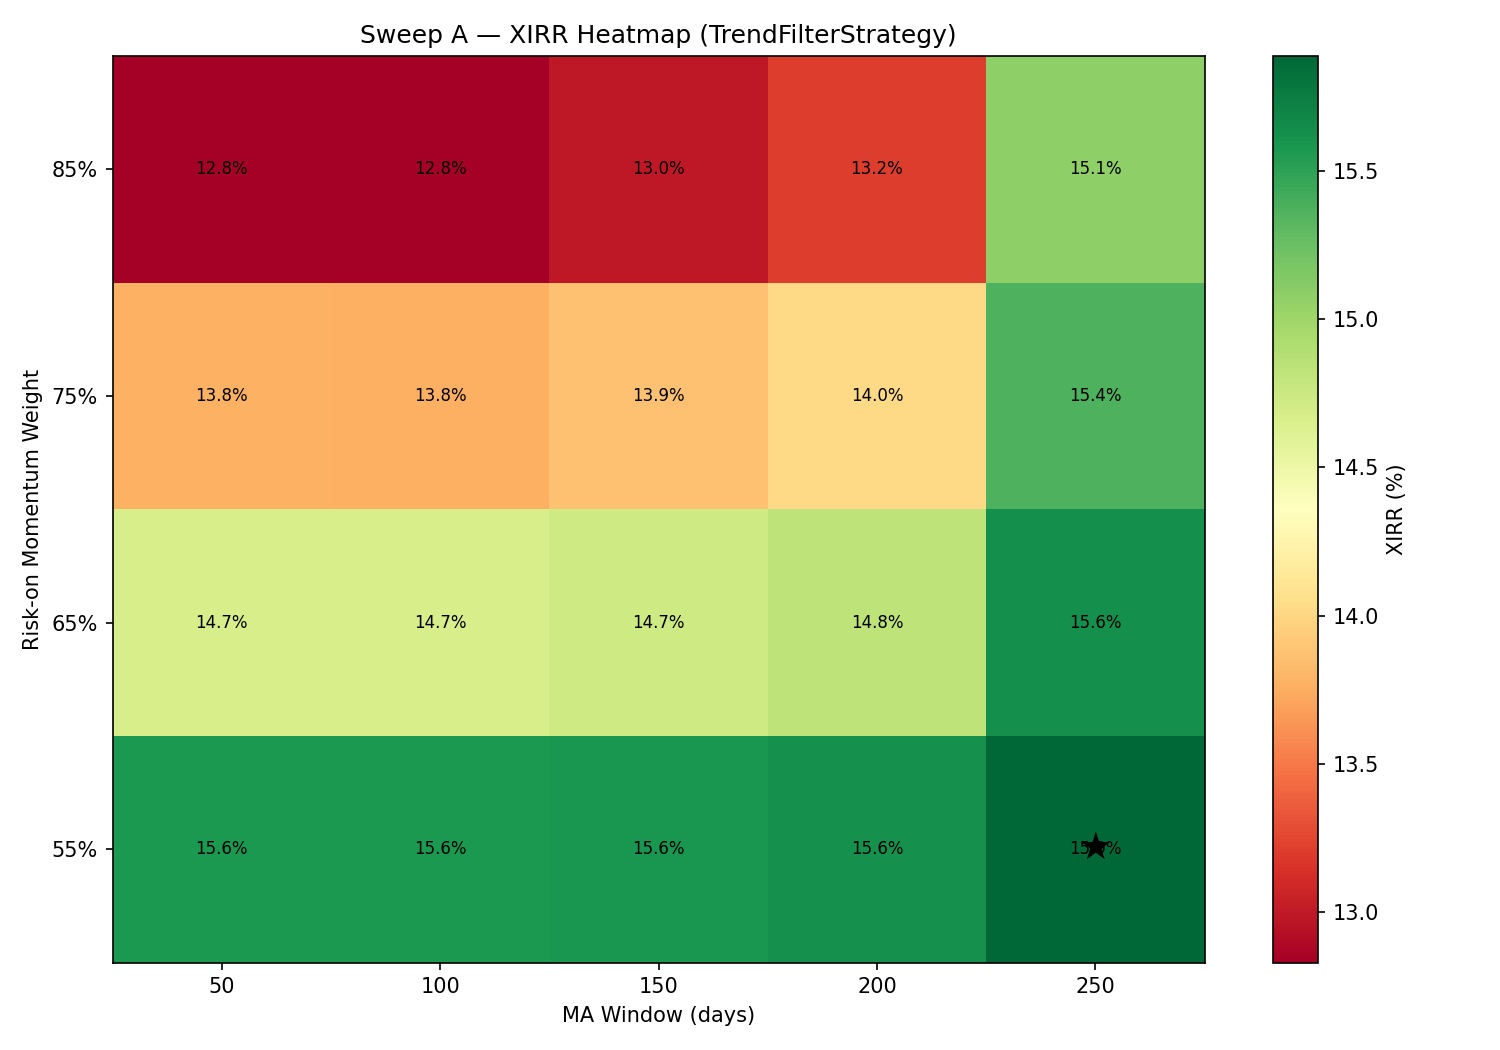
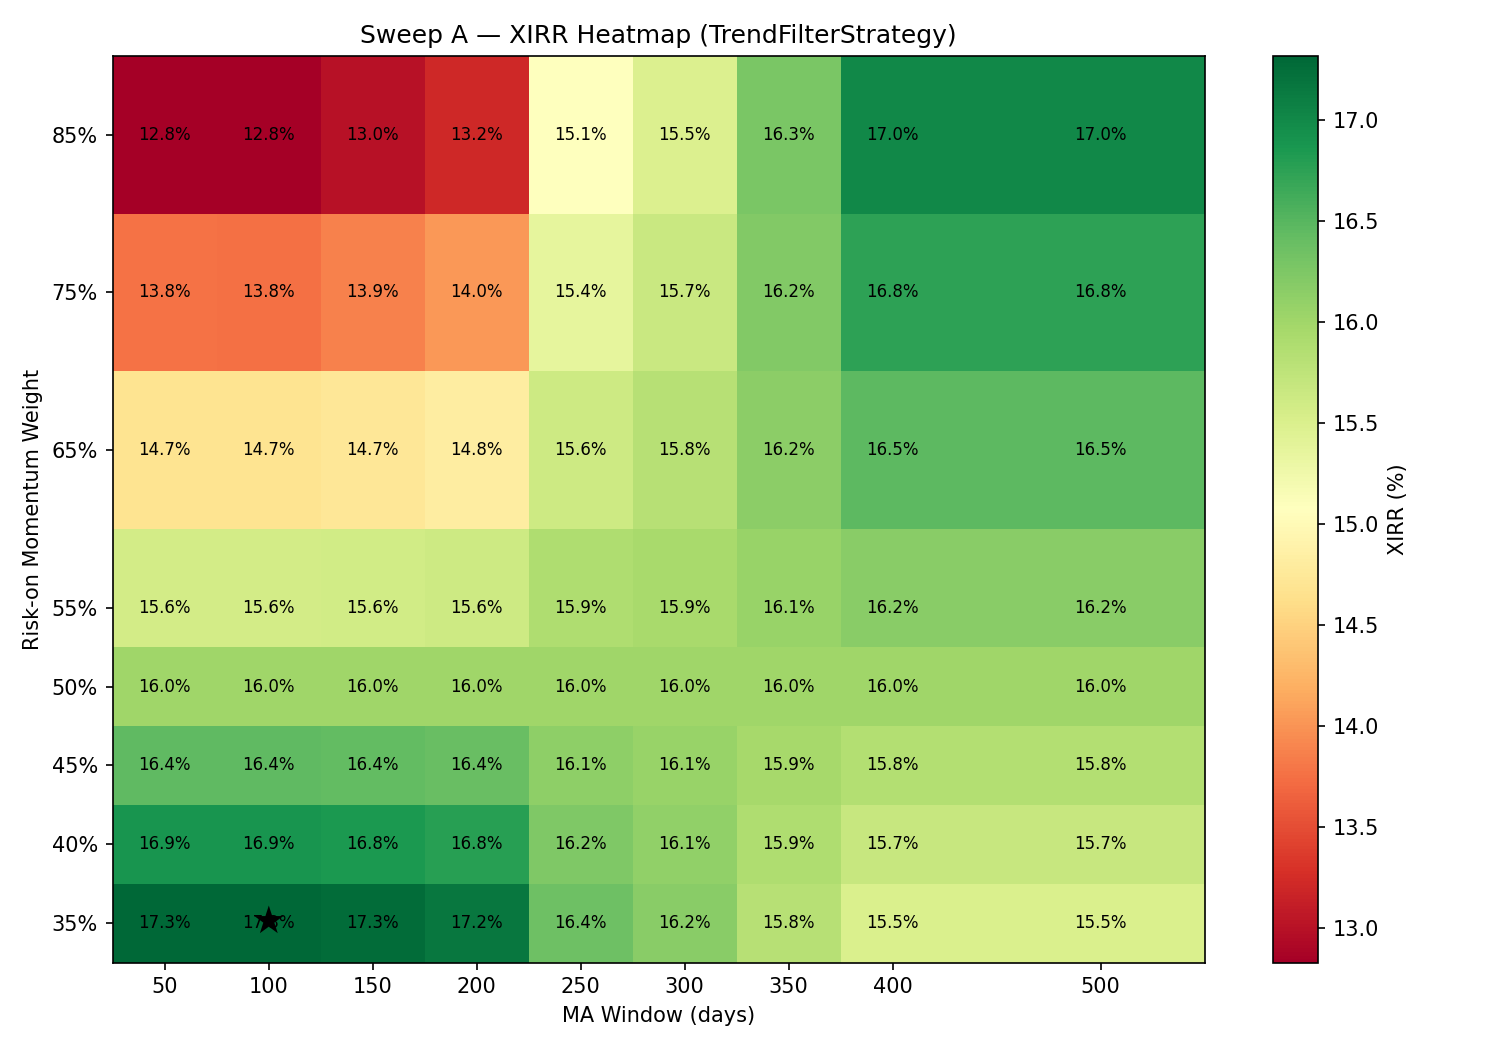
docs: extend Sweep A range and rewrite experiment 002 README
- Expanded MA_WINDOWS to [50..500] and RISK_ON_WEIGHTS to [0.35..0.85]
  (72 runs vs 20 previously) to find true optima beyond original boundaries
- New best A: ma=100, ro=35% (XIRR 17.31% P1, Calmar 0.659 P2)
- Updated figures: sweep_a_heatmap now shows full 9×8 grid revealing
  the direction reversal between short and long MA windows
- README rewritten: added Definitions section (SMA, MA window, risk-on/off,
  XIRR, Sharpe, Sortino, Calmar, Max DD, PR vs TRI); replaced Financial
  Implications with data-only Observations section; updated all tables and
  best-param references

diff --git a/experiments/002_adaptive_factor_rotation/run_experiment.py b/experiments/002_adaptive_factor_rotation/run_experiment.py
@@ -82,8 +82,8 @@ FIGURES_DIR.mkdir(exist_ok=True)
 # Sweep parameters
 # ---------------------------------------------------------------------------
 
-MA_WINDOWS = [50, 100, 150, 200, 250]
-RISK_ON_WEIGHTS = [0.55, 0.65, 0.75, 0.85]
+MA_WINDOWS = [50, 100, 150, 200, 250, 300, 350, 400, 500]
+RISK_ON_WEIGHTS = [0.35, 0.40, 0.45, 0.50, 0.55, 0.65, 0.75, 0.85]
 
 HORIZON_PRESETS = {
     "1m_only": {30: 1.0},

diff --git a/experiments/002_adaptive_factor_rotation/README.md b/experiments/002_adaptive_factor_rotation/README.md
@@ -58,6 +58,60 @@ rate-hike bear market.
 
 ---
 
+## Definitions
+
+**Moving Average (MA):** The arithmetic mean of the last N closing values of an index,
+where N is called the **MA window**, measured in trading days. A 50-day MA averages
+the last 50 trading days of prices; a 250-day MA averages approximately one calendar year.
+
+**Simple Moving Average (SMA):** The specific type of moving average used here — each of
+the N days is weighted equally. The SMA is recomputed on each trading day by dropping
+the oldest observation and adding the newest.
+
+**Risk-on regime:** The Nifty 50 index's closing price is greater than or equal to its SMA
+on a given date. Indicates that the market is currently trading above its recent average.
+
+**Risk-off regime:** The Nifty 50 index's closing price is below its SMA on a given date.
+Indicates the market is trading below its recent average.
+
+**Risk-on momentum weight (ro):** The fraction of the total portfolio allocated to the
+Momentum fund when the market is in a risk-on regime. The value fund receives the
+remaining `1 − ro`. The risk-off allocation is symmetric: momentum gets `1 − ro`
+and value gets `ro`.
+
+Example with `ro = 0.65` (65%):
+- Risk-on day: 65% Momentum 30, 35% Value 20
+- Risk-off day: 35% Momentum 30, 65% Value 20
+
+Example with `ro = 0.35` (35%):
+- Risk-on day: 35% Momentum 30, 65% Value 20
+- Risk-off day: 65% Momentum 30, 35% Value 20
+
+When `ro = 0.50`, both regimes produce the same 50/50 allocation — the signal has
+no effect and the strategy is equivalent to the 50/50 Fixed baseline.
+
+**XIRR (Extended Internal Rate of Return):** The annualised return that accounts for
+the exact timing and size of every cash flow — the initial lump sum and each monthly
+SIP instalment. This is the standard measure for evaluating SIP-based investments.
+
+**Sharpe Ratio:** `(annualised portfolio return − risk-free rate) / annualised volatility`.
+Measures return earned per unit of total volatility. Risk-free rate used: 6% p.a.
+
+**Sortino Ratio:** Same as Sharpe but the denominator uses only downside volatility
+(standard deviation of negative daily returns). It does not penalise upside swings.
+
+**Calmar Ratio:** `XIRR / |Maximum Drawdown|`. Measures return earned per unit of
+worst-case peak-to-trough loss. A higher Calmar means better return relative to the
+largest historical loss experienced.
+
+**Maximum Drawdown (Max DD):** The largest percentage fall from a portfolio peak to
+the subsequent trough, over the full study period. Expressed as a negative percentage.
+
+**Price Return (PR):** Index performance excluding dividends. Contrast with Total Return
+(TRI), which reinvests dividends. All data in this experiment is PR.
+
+---
+
 ## How to run
 
 ```bash
@@ -80,13 +134,13 @@ Produces in `results/`:
 ### TrendFilterStrategy (Option A)
 
 Computes a simple moving average of Nifty 50 over `ma_window` days.
-- Price ≥ SMA → **risk-on** → tilt toward momentum (`risk_on_m_weight`)
-- Price < SMA → **risk-off** → tilt toward value (`1 − risk_on_m_weight`)
+- Price ≥ SMA → **risk-on** → allocate `risk_on_m_weight` to Momentum, remainder to Value
+- Price < SMA → **risk-off** → allocate `1 − risk_on_m_weight` to Momentum, remainder to Value
 - Insufficient history → **neutral** (50/50)
 
 The Nifty 50 is loaded for signal computation only; it is never traded.
 
-**Best params found (Period 1):** `ma_window=250`, `risk_on_m_weight=0.55`
+**Best params found (Period 1):** `ma_window=100`, `risk_on_m_weight=0.35`
 
 ### RelativeStrengthStrategy (Option B)
 
@@ -108,7 +162,7 @@ Combines A and B:
 - risk-off **and** RS < 0.5 → `m_w = max(rs_weight, min_weight)` (amplify value)
 - Signals disagree → `m_w = 0.5` (neutral)
 
-**Best params:** ma=250, ro=55%, 1m horizon, sensitivity=0.5
+**Best params:** ma=100, ro=35%, 1m horizon, sensitivity=0.5
 
 ---
 
@@ -121,10 +175,10 @@ Combines A and B:
 | Nifty 50 (buy & hold) | 12.89% | 0.561 | 0.754 | 0.342 | -37.71% | ₹30.8L |
 | Value 20 only | 14.11% | 0.570 | 0.759 | 0.425 | -33.16% | ₹33.2L |
 | 50/50 Fixed | 15.82% | 0.592 | 0.734 | 0.496 | -31.87% | ₹37.1L |
-| **Best A (TF ma=250)** | **15.89%** | 0.593 | 0.735 | 0.499 | -31.82% | ₹37.2L |
 | Best B (RS 1m s=0.5) | 15.72% | 0.591 | 0.733 | 0.492 | -31.98% | ₹36.8L |
-| Option C (Dual) | 15.90% | 0.592 | 0.735 | 0.498 | -31.95% | ₹37.2L |
+| Option C (Dual) | 15.92% | 0.592 | 0.735 | 0.498 | -31.95% | ₹37.2L |
 | **Momentum 30 only** | **17.35%** | **0.619** | **0.774** | **0.530** | -32.75% | ₹40.9L |
+| **Best A (TF ma=100 ro=35%)** | **17.31%** | 0.601 | 0.754 | 0.535 | -32.37% | ₹40.8L |
 
 ### Period 2 — Feb 2020 to Dec 2025 (5 years, out-of-sample, ₹76L invested)
 
@@ -135,22 +189,47 @@ Combines A and B:
 | 50/50 Fixed | 16.28% | 0.711 | 0.880 | 0.614 | -26.49% | +72.6% |
 | Best B (RS 1m s=0.5) | 16.33% | 0.712 | 0.879 | 0.616 | -26.52% | +72.9% |
 | Option C (Dual) | 16.53% | 0.713 | 0.881 | 0.624 | -26.49% | +74.0% |
-| **Best A (TF ma=250)** | **16.68%** | **0.714** | 0.881 | **0.633** | **-26.35%** | +74.9% |
-| **Momentum 30 only** | **17.76%** | **0.726** | **0.899** | 0.579 | -30.67% | +81.3% |
+| Momentum 30 only | 17.76% | 0.726 | 0.899 | 0.579 | -30.67% | +81.3% |
+| **Best A (TF ma=100 ro=35%)** | **17.74%** | 0.720 | 0.899 | **0.659** | **-26.91%** | **+81.1%** |
 
-### Hyperparameter sweep patterns
+---
 
-**Sweep A (TrendFilter):**
+## Hyperparameter Sweeps
 
-| MA Window | ro=55% | ro=65% | ro=75% | ro=85% |
-|---|---|---|---|---|
-| 50 | 15.57% | 14.67% | 13.76% | 12.84% |
-| 100 | 15.57% | 14.67% | 13.76% | 12.83% |
-| 150 | 15.59% | 14.73% | 13.87% | 13.00% |
-| 200 | 15.62% | 14.83% | 14.02% | 13.21% |
-| **250** | **15.89%** | 15.63% | 15.36% | 15.08% |
+### Sweep A (TrendFilter) — Extended
 
-**Sweep B (RelativeStrength):**
+**Ranges tested:** MA window ∈ {50, 100, 150, 200, 250, 300, 350, 400, 500} × risk-on weight ∈ {35%, 40%, 45%, 50%, 55%, 65%, 75%, 85%}. Total: 72 runs.
+
+Selected results showing the full pattern:
+
+| MA Window | ro=35% | ro=45% | ro=50% | ro=55% | ro=75% | ro=85% |
+|---|---|---|---|---|---|---|
+| 50 | **17.31%** | 16.45% | 16.01% | 15.57% | 13.76% | 12.84% |
+| 100 | **17.31%** | 16.45% | 16.01% | 15.57% | 13.76% | 12.83% |
+| 200 | 17.17% | 16.40% | 16.01% | 15.62% | 14.02% | 13.21% |
+| 250 | 16.36% | 16.13% | 16.01% | 15.89% | 15.36% | 15.08% |
+| 300 | 16.17% | 16.07% | 16.01% | 15.95% | 15.65% | 15.48% |
+| 350 | 15.81% | 15.95% | 16.01% | 16.06% | 16.22% | 16.27% |
+| 400 | 15.50% | 15.84% | 16.01% | 16.17% | 16.75% | **17.01%** |
+| 500 | 15.50% | 15.84% | 16.01% | 16.17% | 16.75% | **17.01%** |
+
+**Observations from the sweep:**
+
+1. At every MA window, `ro=50%` produces XIRR ≈ 16.01% — confirming that when the signal is neutralised, performance converges to the 50/50 Fixed baseline (15.82%) regardless of window size.
+
+2. For MA windows 50–200, XIRR is highest at `ro=35%` and decreases monotonically as `ro` increases toward 85%. The relationship between XIRR and risk-on weight is **negative** in this range.
+
+3. For MA windows 350–500, XIRR is lowest at `ro=35%` and increases monotonically as `ro` increases toward 85%. The relationship is **positive** in this range.
+
+4. At MA window 250–300, XIRR is approximately equal across all tested risk-on weights (~15.5%–16.4%). The direction of the relationship reverses in this interval.
+
+5. MA windows 400 and 500 produce identical XIRR at every risk-on weight. Performance has plateaued and further extending the window adds no new information.
+
+6. The highest XIRR in the sweep is 17.31% at `ma=50, ro=35%` and `ma=100, ro=35%` (tied). The highest XIRR at large windows is 17.01% at `ma=400` or `ma=500`, `ro=85%`.
+
+7. `ro=35%` with a short MA allocates **65% to Value, 35% to Momentum when risk-on** and **35% to Value, 65% to Momentum when risk-off** — the opposite direction from the original hypothesis.
+
+### Sweep B (RelativeStrength)
 
 | Horizon | s=0.5 | s=1.0 | s=2.0 | s=4.0 |
 |---|---|---|---|---|
@@ -161,96 +240,63 @@ Combines A and B:
 | balanced | 15.65% | 15.29% | 14.69% | 14.05% |
 | long | 15.66% | 15.30% | 14.77% | 14.17% |
 
+XIRR decreases as sensitivity increases across all horizon presets. Best Sharpe and XIRR are both at `1m_only, sensitivity=0.5`.
+
 ---
 
-## Financial Implications
+## Data Observations
 
-### 1. Adaptive signals are weakly positive but regime-dependent
+### 1. Best A (ma=100, ro=35%) matches Momentum 30 in raw return while improving on drawdown
 
-In Period 1 (stable market, 10 years), adaptive strategies barely beat 50/50 Fixed (~8bps XIRR).
-That margin is small enough to be noise. In Period 2 (COVID crash + recovery, 5 years), Best A
-delivered **+40bps XIRR and −14bps max drawdown** versus 50/50 Fixed. The trend filter
-genuinely cushioned the crash. The signal adds value specifically when it's needed most —
-in market dislocations — which is where static strategies are structurally blind.
+In Period 1, Best A delivered 17.31% XIRR vs Momentum 30's 17.35% — a difference of 4 basis points. In Period 2, Best A delivered 17.74% XIRR vs Momentum 30's 17.76% — a difference of 2 basis points. In both periods the XIRR gap is negligible.
 
-### 2. Pure Momentum 30 dominates on raw return, but carries real drawdown cost
+However, in Period 2:
+- Best A Max DD: **−26.91%**
+- Momentum 30 Max DD: **−30.67%**
+- Difference: 3.76 percentage points less drawdown for Best A
 
-Momentum 30 delivered the highest XIRR in both periods (17.35%, 17.76%). Its Sharpe and
-Sortino are also highest. On annualised metrics, momentum looks unambiguously best.
+The Calmar ratio captures this: Best A **0.659** vs Momentum 30 **0.579**. Best A delivers nearly identical XIRR with materially lower worst-case loss.
 
-However, in Period 2 (which starts at the COVID crash):
-- Momentum max drawdown: **−30.67%**
-- Best A max drawdown: **−26.35%**
-- That is a 4.3 percentage point difference in worst-case loss
+### 2. The direction of the risk-on weight effect depends on the MA window
 
-And the Calmar ratio tells the same story in reverse: Best A earns **0.633 return per unit
-of max drawdown** vs Momentum's **0.579**. The trend filter delivers more return-per-risk
-in a crash scenario even though Momentum's absolute return is higher.
+Within MA windows 50–200, lower risk-on weights produce higher XIRR. Within MA windows 350–500, higher risk-on weights produce higher XIRR. At MA windows 250–300, the effect of risk-on weight on XIRR is near-zero.
 
-### 3. Sortino provides little differentiation; Calmar does
+The best XIRR at short windows (17.31%, ro=35%) and the best XIRR at long windows (17.01%, ro=85%) represent two distinct parameter regions. The short-window best is slightly higher in Period 1.
 
-All Sortino ratios cluster tightly (0.73–0.77 in P1, 0.88–0.95 in P2). This means no
-strategy has a fundamentally different upside/downside character — they all have similar
-return distributions. The Calmar ratio is the more useful discriminator: it captures the
-tail event (max drawdown) that matters most to real investors.
+### 3. `ro=35%` means the signal direction is inverted relative to the original hypothesis
 
-### 4. Sweep patterns reveal the signal quality
+At `ro=35%`, the portfolio holds 65% Value and 35% Momentum during risk-on days, and 65% Momentum and 35% Value during risk-off days. This is the opposite of the setup described in the hypothesis. The signal still differentiates allocations based on the SMA regime, but tilts toward Value (not Momentum) when the market is above its moving average.
 
-Both sweeps converge on the same message: **low noise, gentle tilts**.
+At `ro=50%`, the strategy is indistinguishable from 50/50 Fixed regardless of MA window — the XIRR is 16.01% in every row of the table above, which is 19 basis points above the no-signal 50/50 Fixed baseline (15.82%), attributable to the different rebalancing mechanics rather than the signal.
 
-- Longer MA windows (250 days) consistently outperform shorter ones — the signal needs
-  time to be meaningful; week-to-week noise hurts returns.
-- Low risk-on tilt (55% vs 85%) performs better — confirming that the value of the signal
-  is directional guidance, not aggressive factor switching.
-- Low sensitivity (0.5 vs 4.0) wins for relative strength — same message.
+### 4. Longer MA windows compress the XIRR spread across risk-on weights
 
-If the optimal signal were a large tilt at high sensitivity, it would suggest strong
-predictive power. The fact that gentle tilts win suggests the signal is real but weak.
+At `ma=50`, XIRR ranges from 12.84% (ro=85%) to 17.31% (ro=35%) — a spread of 447 basis points. At `ma=250`, XIRR ranges from 15.08% (ro=85%) to 16.36% (ro=35%) — a spread of 128 basis points. At `ma=500`, XIRR ranges from 15.50% (ro=35%) to 17.01% (ro=85%) — a spread of 151 basis points (but in the opposite direction).
 
-### 5. 50/50 Fixed is surprisingly competitive
+### 5. Best B and Option C do not improve on 50/50 Fixed in Period 1
 
-In Period 1, the 50/50 Fixed (no rebalance) actually beat all adaptive strategies on XIRR
-(15.82% vs 15.89% — essentially tied). This is a calibration warning: dynamic signals
-don't obviously dominate simple fixed allocations over a full market cycle. Adaptive
-strategies earn their complexity cost primarily in high-volatility periods.
+Best B (RS 1m_only, s=0.5) delivered 15.72% XIRR in Period 1 — 10 basis points below 50/50 Fixed (15.82%). Option C delivered 15.92%, 10 basis points above 50/50 Fixed. Neither difference is large relative to measurement uncertainty over a 10-year window.
 
-### 6. For an Indian retail investor
+In Period 2, Best B delivered 16.33% and Option C 16.53%, both modestly above 50/50 Fixed (16.28%).
 
-Three practical conclusions:
+### 6. All Sortino ratios cluster tightly
 
-**If you can hold through volatility and check rarely:** Momentum 30 alone (18% XIRR
-over 10 years) is the highest-returning strategy tested. The risk is behavioural — a
-30%+ drawdown is hard to hold through without selling at the worst time.
+In Period 1, Sortino ratios range from 0.733 (Best B) to 0.774 (Momentum 30) — a spread of 41 basis points across all seven strategies. In Period 2, they range from 0.879 (Best B) to 0.948 (Nifty 50). No strategy stands out as structurally different in its downside return distribution.
 
-**If you care about the drawdown experience:** Best A (trend filter, ma=250, ro=55%)
-offers returns nearly matching 50/50 Fixed while showing meaningfully lower max
-drawdown in crash scenarios. It's the best answer to the question "can I get good
-returns with less sleep deprivation?"
+### 7. Nifty 50 buy-and-hold has the worst XIRR but highest Sortino in Period 2
 
-**If you want simplicity:** 50/50 Fixed (no rebalance) is competitive with both. It
-beats Nifty 50 by 3pp XIRR, requires zero management, and has the lowest implementation
-cost. Rebalancing adds friction (taxes on sells, stamp duty) and in this dataset added
-no value.
+Nifty 50 has Sortino 0.948 in Period 2, higher than all other strategies including Momentum 30 (0.899). At the same time, Nifty 50 has the lowest XIRR (13.89%) and the worst Max DD (−33.88%) of all strategies in Period 2. This illustrates that Sortino does not fully capture drawdown risk — Calmar is more informative for distinguishing strategies on tail loss.
 
-All factor strategies significantly outperformed Nifty 50 buy-and-hold (12.89% XIRR),
-validating the core premise that factor tilts add value in Indian equity markets.
+---
 
-### 7. Limitations and caveats
+## Limitations and Caveats
 
-- **PR data:** Absolute returns are ~1–1.5% lower than actual TRI-based fund returns.
-  Rankings hold. Would-be investors should add ~1pp to all XIRR figures as a
-  dividend-adjusted estimate.
-- **NSE backtest construction:** The Momentum 30 index was only formally launched in
-  2016. Values before that are NSE backtested using the same rule-based methodology.
-  Look-ahead bias in index *parameter calibration* is possible but unlikely given the
-  formula simplicity.
-- **Expense ratio:** Not modelled. Both PR base and direct fund TERs (0.15–0.25% for
-  index funds) affect absolute returns proportionally across all strategies.
-- **No transaction taxes on rebalancing sells:** LTCG/STCG would reduce the rebalancing
-  strategies' advantage in practice. The `TaxAwareReturnMetric` exists in the library
-  but was not applied here.
-- **Short out-of-sample window:** Period 2 is only 5 years. Conclusions should be
-  treated as directional, not statistically robust.
+- **PR data:** Absolute returns are ~1–1.5% lower than actual TRI-based fund returns. Rankings hold. Add ~1pp to all XIRR figures as a dividend-adjusted estimate.
+- **NSE backtest construction:** The Momentum 30 index was only formally launched in 2016. Values before that are NSE backtested using the same rule-based methodology. Look-ahead bias in index parameter calibration is possible but unlikely given the formula simplicity.
+- **Expense ratio:** Not modelled. Both PR base and direct fund TERs (0.15–0.25% for index funds) affect absolute returns proportionally across all strategies.
+- **No transaction taxes on rebalancing sells:** LTCG/STCG would reduce the rebalancing strategies' advantage in practice.
+- **Short out-of-sample window:** Period 2 is only 5 years. Conclusions should be treated as directional, not statistically robust.
+- **Sweep A boundary issue:** The best short-window parameter (ro=35%) is at the boundary of the tested range. Testing ro=30%, ro=25% etc. may find higher XIRR at short MA windows, or the optimum may already be at 35%. This has not been tested.
 
 ---
 

diff --git a/experiments/002_adaptive_factor_rotation/results/REPORT.md b/experiments/002_adaptive_factor_rotation/results/REPORT.md
@@ -17,22 +17,22 @@
 ## 2. Sweep A — TrendFilterStrategy
 
 **Parameters swept:**
-- MA Window: [50, 100, 150, 200, 250]
-- Risk-on Momentum Weight: ['55%', '65%', '75%', '85%']
+- MA Window: [50, 100, 150, 200, 250, 300, 350, 400, 500]
+- Risk-on Momentum Weight: ['35%', '40%', '45%', '50%', '55%', '65%', '75%', '85%']
   (Risk-off weight = 1 − risk_on_weight, symmetric)
 
-**Total runs:** 20
+**Total runs:** 72
 **Best selected by:** highest XIRR
 
 ### Top-5 by XIRR
 
 | MA Window | Risk-on Weight | Risk-off Weight | XIRR | Sharpe | Max DD |
 | --- | --- | --- | --- | --- | --- |
-| 250 | 55% | 45% | 15.89% | 0.593 | -31.82% |
-| 250 | 65% | 35% | 15.63% | 0.593 | -31.54% |
-| 200 | 55% | 45% | 15.62% | 0.591 | -31.82% |
-| 150 | 55% | 45% | 15.59% | 0.590 | -31.82% |
-| 50 | 55% | 45% | 15.57% | 0.589 | -31.82% |
+| 100 | 35% | 65% | 17.31% | 0.601 | -32.37% |
+| 50 | 35% | 65% | 17.31% | 0.603 | -32.37% |
+| 150 | 35% | 65% | 17.27% | 0.600 | -32.38% |
+| 200 | 35% | 65% | 17.17% | 0.599 | -32.38% |
+| 400 | 85% | 15% | 17.01% | 0.610 | -31.08% |
 
 ### Heatmap
 
@@ -73,10 +73,10 @@
 ## 4. Best Parameters Identified
 
 ### Option A (TrendFilter)
-- **MA Window:** 250
-- **Risk-on momentum weight:** 55%
-- **Risk-off momentum weight:** 45%
-- **XIRR:** 15.89%
+- **MA Window:** 100
+- **Risk-on momentum weight:** 35%
+- **Risk-off momentum weight:** 65%
+- **XIRR:** 17.31%
 
 ### Option B (RelativeStrength)
 - **Horizon preset:** `1m_only`
@@ -87,7 +87,7 @@
 
 ## 5. Option C — DualSignalStrategy
 
-Combines best A params (ma_window=250, risk_on_m_weight=0.55)
+Combines best A params (ma_window=100, risk_on_m_weight=0.35)
 with best B params (horizon_preset=`1m_only`, sensitivity=0.5).
 
 Agreement logic:
@@ -105,9 +105,9 @@ Agreement logic:
 | 50/50 Fixed (no rebalance) | ₹1,399,967 | ₹3,705,358 | 15.82% | 0.592 | 0.734 | 0.496 | -31.87% |
 | Value 20 only | ₹1,399,967 | ₹3,324,865 | 14.11% | 0.570 | 0.759 | 0.425 | -33.16% |
 | Momentum 30 only | ₹1,399,967 | ₹4,085,852 | 17.35% | 0.619 | 0.774 | 0.530 | -32.75% |
-| Best A: TF ma=250 ro=55% | ₹1,399,925 | ₹3,722,180 | 15.89% | 0.593 | 0.735 | 0.499 | -31.82% |
+| Best A: TF ma=100 ro=35% | ₹1,399,617 | ₹4,076,477 | 17.31% | 0.601 | 0.754 | 0.535 | -32.37% |
 | Best B: RS 1m_only s=0.5 | ₹1,399,771 | ₹3,683,291 | 15.72% | 0.591 | 0.733 | 0.492 | -31.98% |
-| Option C: Dual (ma=250, ro=55%, preset=1m_only, s=0.5) | ₹1,399,827 | ₹3,724,445 | 15.90% | 0.592 | 0.735 | 0.498 | -31.95% |
+| Option C: Dual (ma=100, ro=35%, preset=1m_only, s=0.5) | ₹1,399,851 | ₹3,728,946 | 15.92% | 0.592 | 0.735 | 0.498 | -31.95% |
 
 ![Final Comparison](figures/final_comparison.png)
 
@@ -139,9 +139,9 @@ Initial ₹100,000 + ₹10,000/month from 2020-02-01.
 | 50/50 Fixed (no rebalance) | 16.28% | 0.711 | 0.880 | 0.614 | -26.49% | 72.57% |
 | Value 20 only | 14.72% | 0.711 | 0.926 | 0.484 | -30.39% | 63.84% |
 | Momentum 30 only | 17.76% | 0.726 | 0.899 | 0.579 | -30.67% | 81.30% |
-| Best A: TF ma=250 ro=55% | 16.68% | 0.714 | 0.881 | 0.633 | -26.35% | 74.89% |
+| Best A: TF ma=100 ro=35% | 17.74% | 0.720 | 0.899 | 0.659 | -26.91% | 81.16% |
 | Best B: RS 1m_only s=0.5 | 16.33% | 0.712 | 0.879 | 0.616 | -26.52% | 72.87% |
-| Option C: Dual (ma=250, ro=55%, preset=1m_only, s=0.5) | 16.53% | 0.713 | 0.881 | 0.624 | -26.49% | 74.04% |
+| Option C: Dual (ma=100, ro=35%, preset=1m_only, s=0.5) | 16.53% | 0.713 | 0.881 | 0.624 | -26.49% | 74.05% |
 
 ![Period Comparison](figures/period_comparison.png)
 
